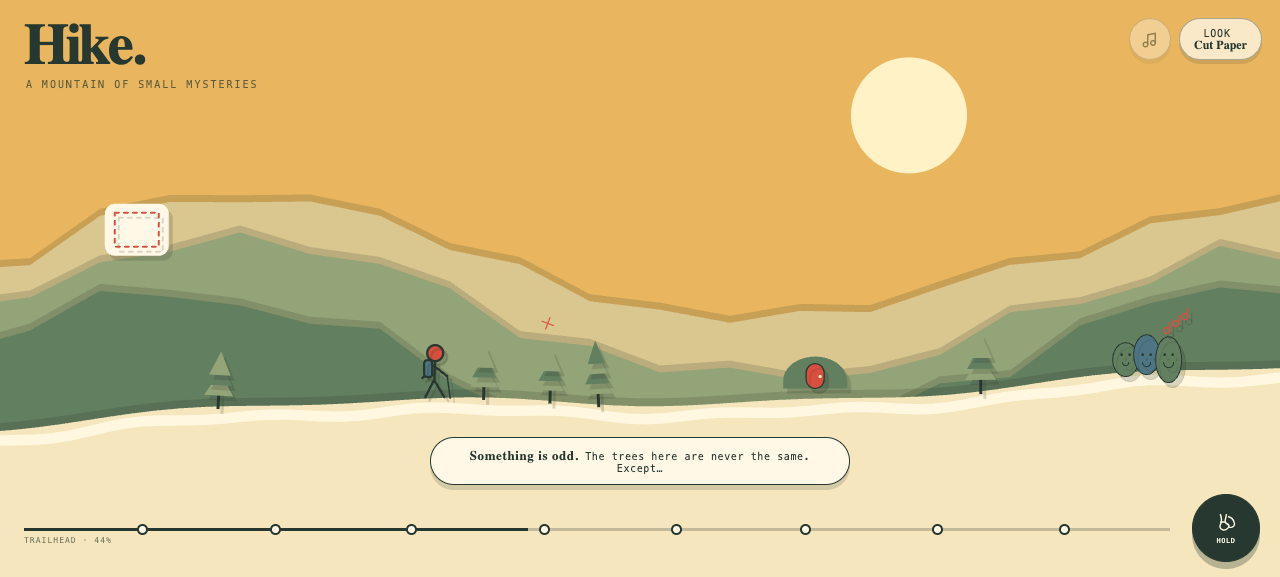
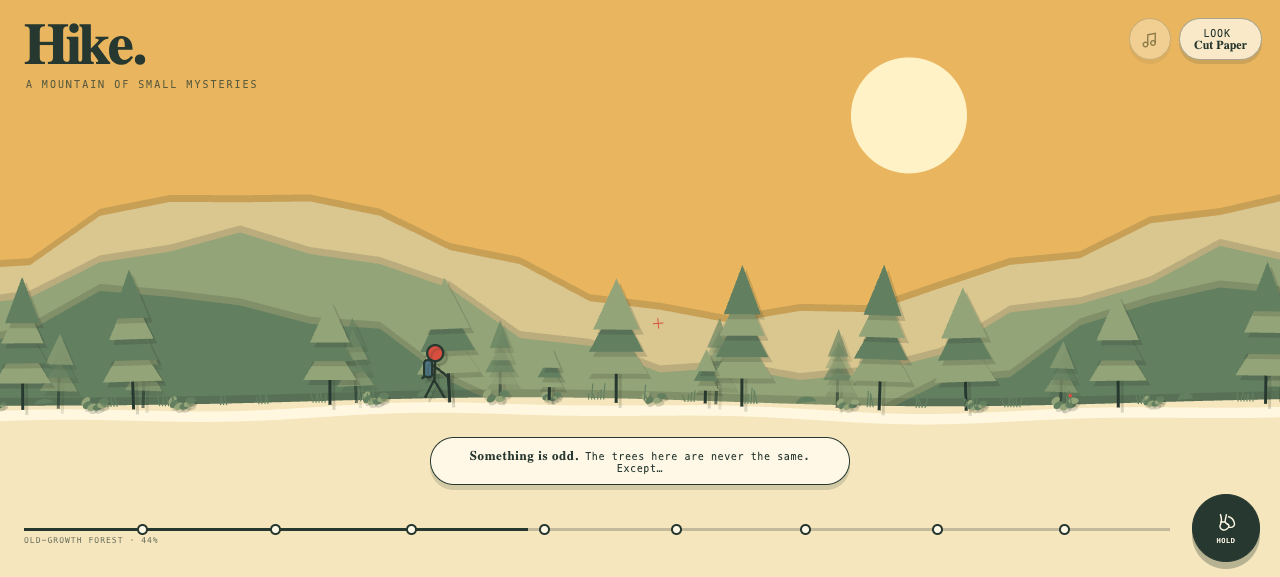
hike: refresh pitch for the mountain ascent

diff --git a/hike/PITCH.md b/hike/PITCH.md
@@ -1,7 +1,7 @@
 # Hike
 
-**A mountain of small mysteries.** Take a quiet, paper-cut walk up a winding trail where the trees are all different—until two are not, a cloud forgets what shape it should be, and the stones begin to sing. Hold to hike, stop when the landscape feels wrong, and click each curious thing to add its strange little story to your trail log. Eight unmissable surprises and four switchable art treatments turn one short climb into a pocket-sized expedition worth looking at twice.
+**A mountain of small mysteries.** Take a quiet climb from knee-high saplings through towering old growth, drifting mountain fog, and finally the snowline. The trail is alive with ordinary trees, brush, wildflowers, rocks, and grass—until two trees match exactly, a cloud forgets what shape it should be, and the stones begin to sing. Hold to hike, stop when the landscape feels wrong, and log eight unmissable curiosities, all rendered in your choice of cut paper, ink wash, neon wireframe, or bright pixel art.
 
 ![The Cut Paper style, paused beside a suspicious pair of trees](screenshots/hike-paper.png)
 
-![The Dusk Collage style, where a moth carries a tiny moon](screenshots/hike-dusk.png)
+![The Neon Summit style reaching the snowline](screenshots/hike-neon.png)

diff --git a/hike/README.md b/hike/README.md
@@ -14,6 +14,6 @@ The hiking itself should be simple. I was imagining that it's a 2D side scroller
 bun run dev
 ```
 
-Hold the round boot button, <kbd>→</kbd>, <kbd>D</kbd>, or <kbd>Space</kbd> to hike. The trail pauses at every curiosity until you find and click it. Use **Look** to switch between Cut Paper, Night Blueprint, Dusk Collage, and Field Guide.
+Hold the round boot button, <kbd>→</kbd>, <kbd>D</kbd>, or <kbd>Space</kbd> to hike. The eight-minute trail climbs from young woods through old growth and mountain fog to the snowline, pausing at every curiosity until you find and click it. Use **Look** to switch between four distinct treatments: Cut Paper, Ink Wash, Neon Summit, and the pixel-art Pocket Hike.
 
-Add `?debug=true&music=off` for surprise-jump controls and silent automated testing. The game also exposes `window.__HIKE_DEBUG__` for programmatic playtesting.
+Add `?debug=true&music=off` for 1×/2×/4× walk-speed controls, surprise jumps, and silent automated testing. The game also exposes `window.__HIKE_DEBUG__` for programmatic playtesting.
